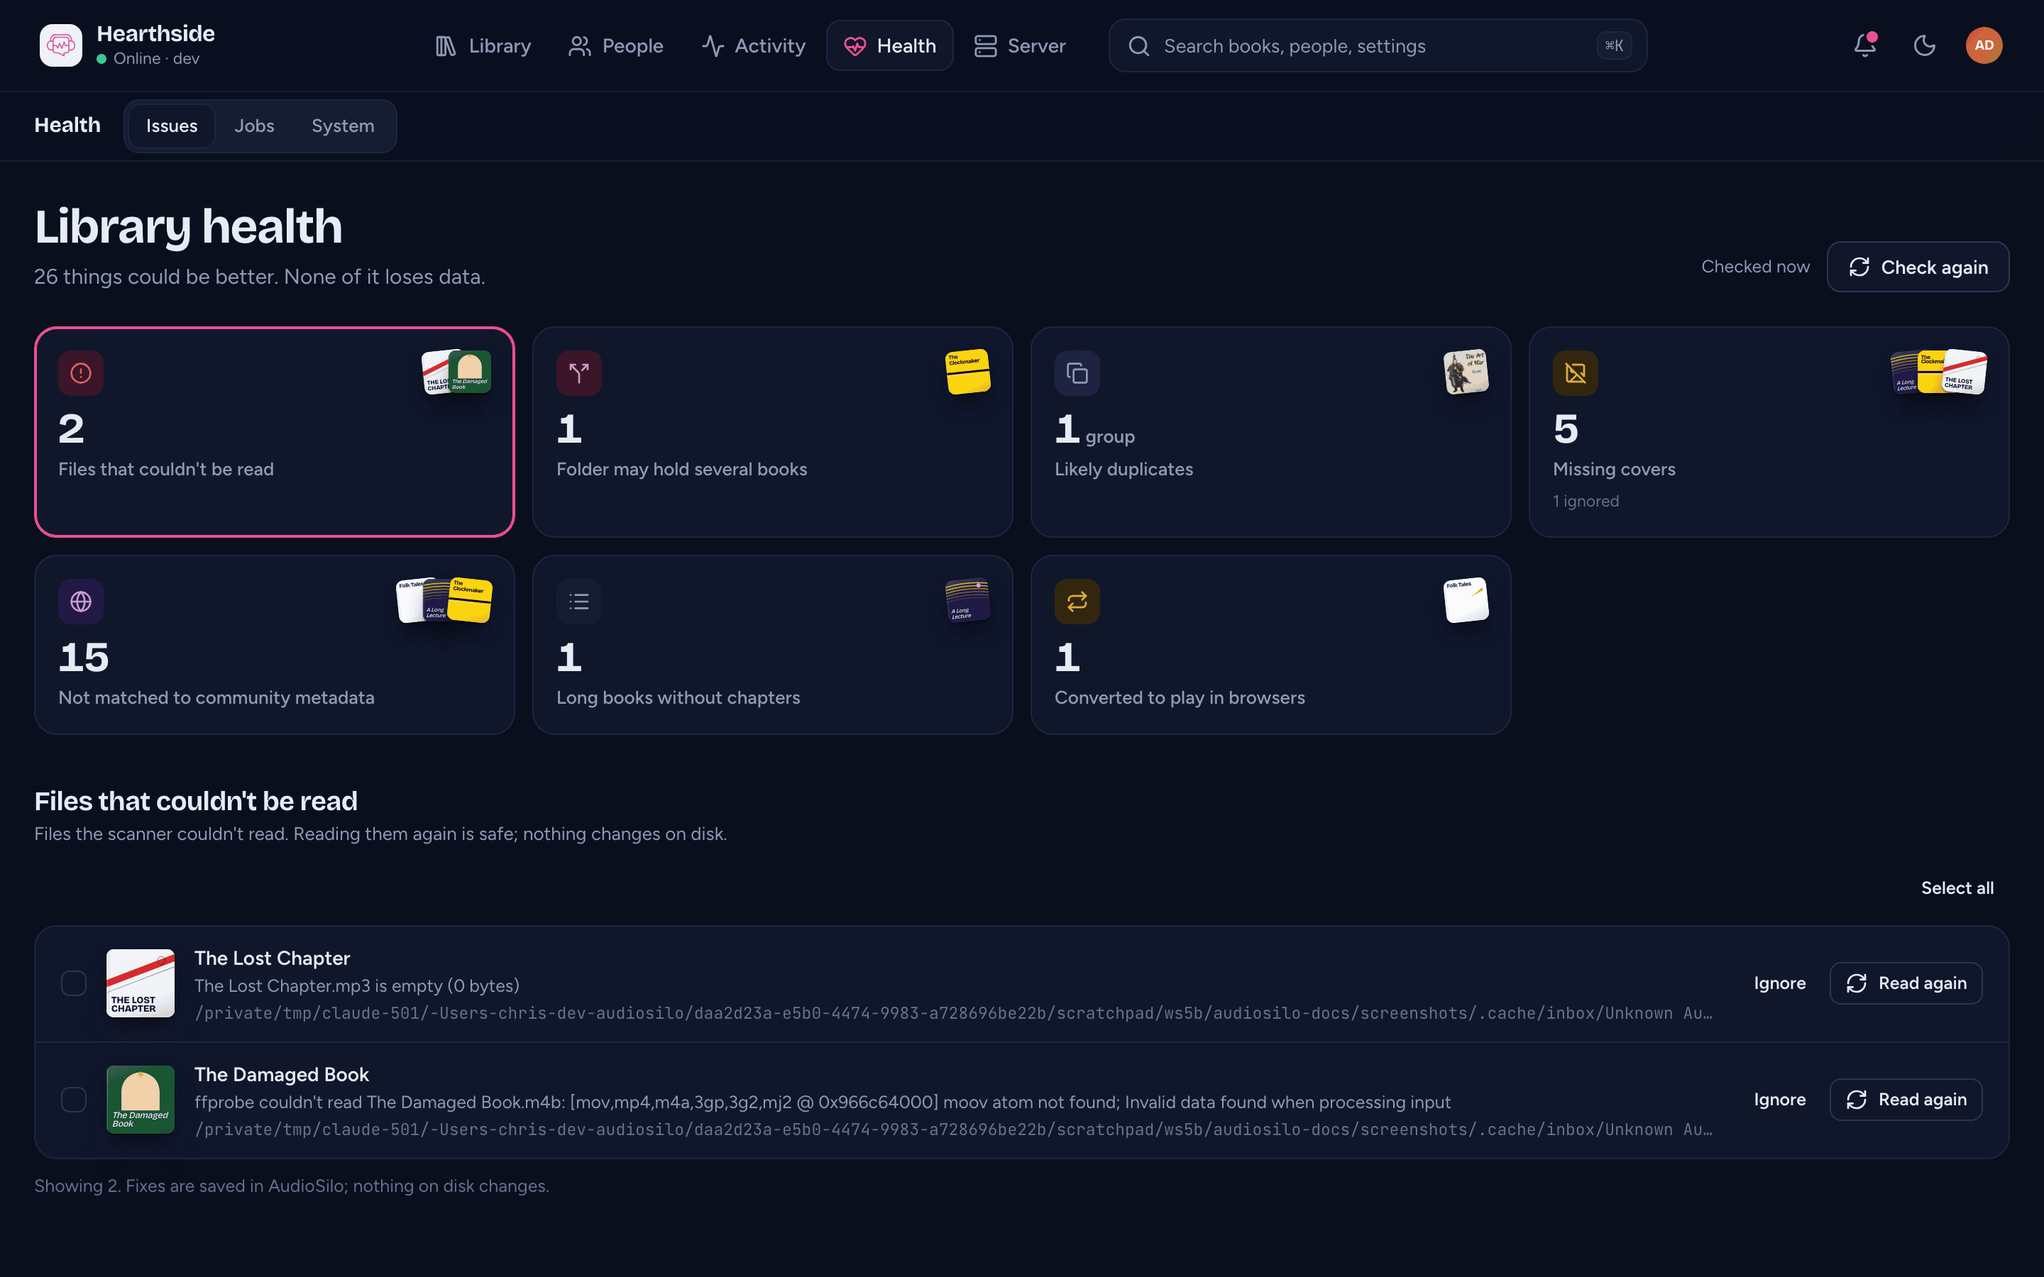
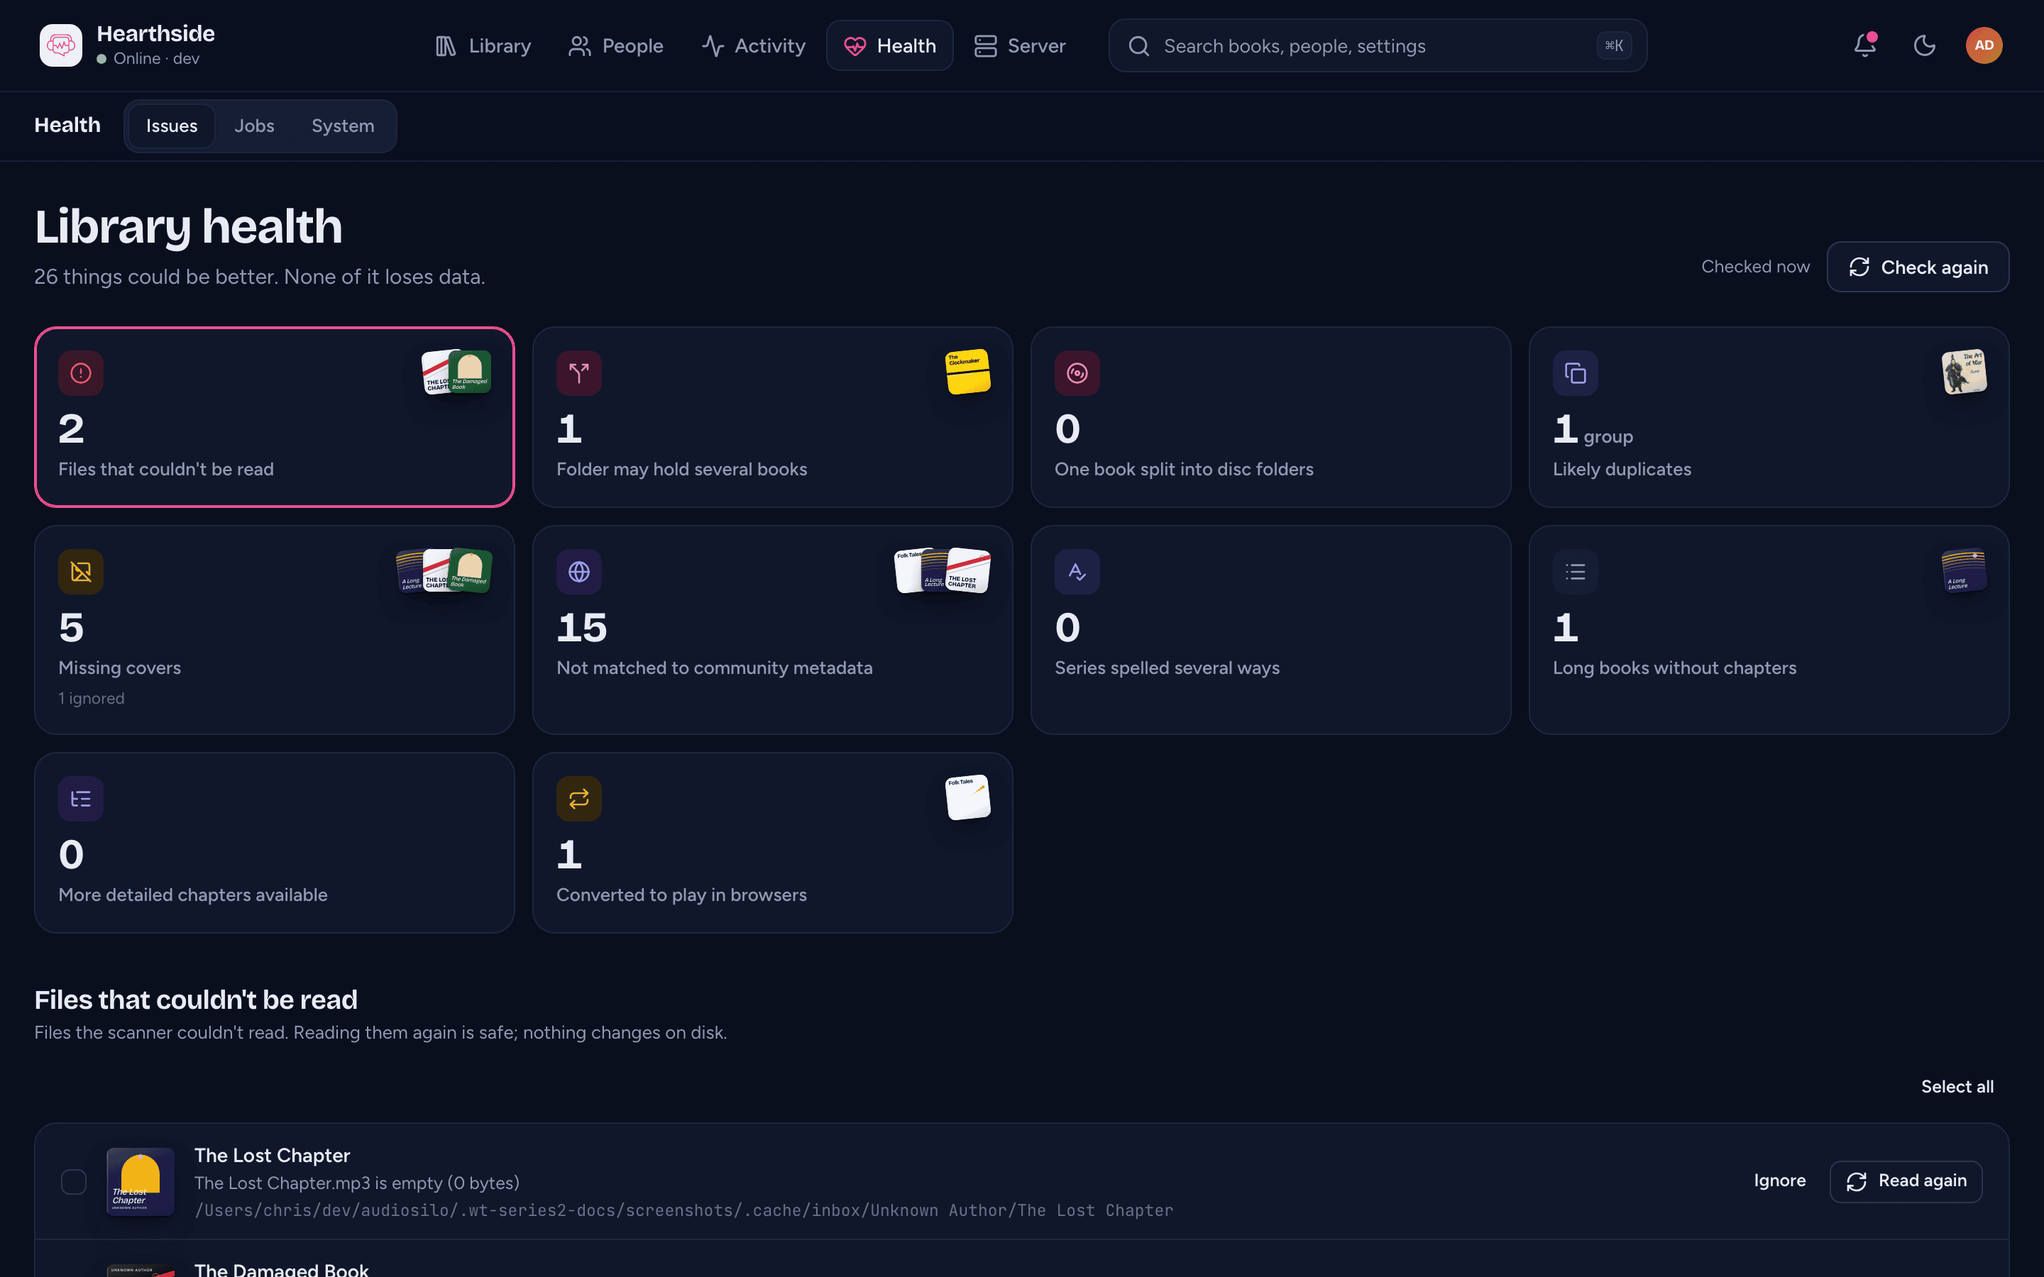
Series keys, Health's series spelled several ways, Authors/Narrators pages
Docs for audiosilo-server's stored series key (books.series_key,
book_more_series, migration 0041, KeySeries), the Health issue and its endpoint,
and the paged Authors and Narrators lists; health-issues and authors screenshots
regenerated.

diff --git a/docs-developers/server/data-model.md b/docs-developers/server/data-model.md
@@ -4,7 +4,7 @@ description: "The SQLite schema behind audiosilo-server: the rebuildable index v
 ---
 
 The schema lives in `internal/store/migrations/` as numbered SQL files
-(`0001_init.sql` … `0040_server_state.sql`), embedded into the binary and
+(`0001_init.sql` … `0041_series_key.sql`), embedded into the binary and
 applied by `store.Open` at startup. This page documents the **resulting current
 schema**, noting which migration added what.
 
@@ -203,7 +203,7 @@ covered in [Auth & security](auth-and-security.md#authorization-shares--scope).
 `scan_error_file`, `scan_error_detail` and `suspect_parts` in 0017; `split_parent` in
 0022; `cover_art` and `cover_color` in 0023; `chapters_source`, `chapters_fit`,
 `scanned_chapters` and `chapters_hash` in 0035; `released` and `released_checked`
-in 0037)* - one row per book,
+in 0037; `series_key` in 0041)* - one row per book,
 `UNIQUE (library_id, rel_path)`. Columns: `is_folder` (folder book vs
 single-file book), identity metadata (`title`, `author`, `series`,
 `series_index`, `narrator`), `duration`, `asin`/`isbn` (optional external ids -
@@ -217,7 +217,14 @@ that sets or reverts `series` to one of these swaps the two, writing the list
 and `series_index` as overrides (a value the scan already gives is reverted to
 it instead; the console sends the values itself, so its swap writes them as
 edits);
-the full-text index's series column holds every series name), `released` (the date the file's tags give, `YYYY[-MM[-DD]]` via
+the full-text index's series column holds every series name), `series_key` (the
+main series' key, `catalog.seriesKey`: `match.SeriesKey`, so case, accents,
+punctuation and spacing aside, or the name itself when it has no letter or digit;
+`''` for no series), written by Go in `refreshEffective` beside `series` and never
+computed in SQL, so every spelling of a series is found by one index seek
+(`idx_books_series_key` on `(library_id, series_key, series, series_index)`, which
+replaced 0001's `idx_books_series`; `series` sits before `series_index` so a series'
+spellings are adjacent for Health's `series_spellings`), `released` (the date the file's tags give, `YYYY[-MM[-DD]]` via
 `metadata.ReleaseDate`: usually the recording's, so it is a separate scanned
 column, never `published`, read only by the admin list's release-date sort as
 the fallback for a book with no `published`) and `released_checked` (`1` once a
@@ -358,6 +365,15 @@ no row = automatic), `updated_by` (`ON DELETE SET NULL`), `updated_at`. Durable
 admin state like `book_overrides`, kept apart from it because it is not a
 metadata value (no part of `edited` / `edited_fields`); moved with the book's
 other edits, never copied onto a joined book.
+
+**`book_more_series`** *(0041)* - a book's other series by key: one row per
+series in `more_series` that isn't its main one (`book_id` → `books` `ON DELETE
+CASCADE`, `library_id`, `series_key`, `position`; primary key `(book_id,
+series_key)`, `WITHOUT ROWID`, index `(series_key, library_id, position)`).
+Rewritten from the effective values by `refreshEffective` (`keyOtherSeries`), as
+`books.series_key` is, so a series filter with memberships, the series order and
+the next book find a book through its list by an index seek, and the rails'
+`SeriesBooks` without reading every list.
 
 **`books_fts`** *(0001)* - see [FTS design](#fts-design-books_fts) below.
 
@@ -743,11 +759,21 @@ every other table. `catalog/server_state.go` reads and writes a key
 `putServerState`), taking a querier or execer so a caller can read and write one
 key in a single transaction.
 
-One key so far, `support_card`: the answer to the admin console's
-[support card](web-ui.md#the-support-card), `{"choice":"donated"}` or
-`{"choice":"snoozed","until":"<time>"}`. `catalog.SetSupportChoice` reads and
-writes it in one transaction, so a donation is never downgraded by a later
-snooze.
+Its keys:
+
+- `support_card`: the answer to the admin console's
+  [support card](web-ui.md#the-support-card), `{"choice":"donated"}` or
+  `{"choice":"snoozed","until":"<time>"}`. `catalog.SetSupportChoice` reads and
+  writes it in one transaction, so a donation is never downgraded by a later
+  snooze.
+- `title_positions`: `true` once `catalog.PlaceByTitles` has given the books
+  indexed before the title rule their series position from their title.
+- `series_keys`: the version the stored series keys were computed with
+  (`seriesKeysVersion`: the key rules' number, then Go's Unicode version and
+  x/text's NFKD version). `catalog.KeySeries` keys every book at start while it is
+  missing or different (first for the books indexed before 0041, then after an
+  upgrade that reads a name another way), before the listener; a failure stops
+  the start (see `book_more_series` below).
 
 ### Community metadata cache
 
@@ -946,6 +972,7 @@ The migration history so far:
 | 0038 | `more_series` | `books.more_series` (`TEXT NOT NULL DEFAULT '[]'`), the effective list of a book's other series |
 | 0039 | `more_series_index` | the partial index `idx_books_more_series` on `books(library_id) WHERE more_series <> '[]'`, so the reads of the books in more than one series (a series' members, `/series` with `memberships=1`) skip the rest |
 | 0040 | `server_state` | `server_state` (`key`, `value`, `updated_at`), small server-wide facts that aren't settings; the first key is the support card's answer: see [Server state](#server-state) |
+| 0041 | `series_key` | `books.series_key` and `book_more_series`, a series stored by its key so every series filter is an index seek in any spelling; `idx_books_series_key` replaces `idx_books_series`, and `idx_books_more_series` (0039) goes, since nothing reads it any more. Rows indexed before it are keyed at start by `catalog.KeySeries` (server_state `series_keys`), which also puts every stored `more_series` list through the list rules first |
 
 ## SQLite choices
 

diff --git a/docs-developers/server/api/reference.md b/docs-developers/server/api/reference.md
@@ -3322,7 +3322,7 @@ what the first does).
 | `min_duration` · `max_duration` | number (seconds) | - | inclusive bounds; `0` means no bound |
 | `added_after` | date | - | inclusive lower bound on `added_at`: `YYYY-MM-DD` (used as is) or an RFC 3339 time (any offset; converted to UTC before comparing) |
 | `added_before` | date | - | exclusive upper bound, same formats |
-| `issue` | string | - | one [Health issue](#get-apiv1adminissues) kind's books: `scan_error`, `suspect`, `split_discs` (one row per split book: its first disc), `no_cover`, `unmatched`, `no_chapters`, `detailed_chapters` or `transcode` (not `duplicate`, which comes as groups from [`/admin/issues/duplicates`](#get-apiv1adminissuesduplicates)). Books an admin ignored for that kind are left out. Any other value is `400 unknown issue` |
+| `issue` | string | - | one [Health issue](#get-apiv1adminissues) kind's books: `scan_error`, `suspect`, `split_discs` (one row per split book: its first disc), `no_cover`, `unmatched`, `series_spellings`, `no_chapters`, `detailed_chapters` or `transcode` (not `duplicate`, which comes as groups from [`/admin/issues/duplicates`](#get-apiv1adminissuesduplicates)). Books an admin ignored for that kind are left out. Any other value is `400 unknown issue` |
 | `issue_ignored` | `true`\|`false` | - | with `issue`, list **only** the books an admin ignored for it; without `issue` it is `400 issue_ignored needs an issue` |
 | `sort` | string | `title` | `title` \| `author` \| `surname` \| `series` \| `narrator` \| `published` \| `added` \| `duration` \| `size` |
 | `order` | string | `asc` | `asc` \| `desc` |
@@ -4468,7 +4468,13 @@ a scan last finished.
 
 - `categories` - one entry per kind, always in this order: `scan_error`,
   `suspect`, `split_discs`, `duplicate`, `no_cover`, `unmatched`,
-  `no_chapters`, `detailed_chapters`, `transcode`. `detailed_chapters` is a
+  `series_spellings`, `no_chapters`, `detailed_chapters`, `transcode`.
+  `series_spellings` is a book whose main series another book of its library
+  spells another way (the same series in a different case, accent, punctuation or
+  spacing; see [`/series`](#get-apiv1librariesidseries)); every book of such a
+  series is counted, and
+  [`/admin/issues/series-spellings`](#get-apiv1adminissuesseries-spellings) lists
+  them per series. `detailed_chapters` is a
   book whose last [community chapter check](../community-chapters.md) found
   finer community chapters that fit (`refine`) and whose chapter source no
   admin has chosen; the console's fix is a bulk edit with
@@ -4534,6 +4540,46 @@ different libraries are deliberate and never grouped).
 - At most 500 groups (counted after that filter, so every ignored group can be
   reached), ordered by library and the kept copy's path.
 
+### `GET /api/v1/admin/issues/series-spellings`
+
+The series a library's books spell more than one way, one entry per series and
+library, from the same rule as the `series_spellings` count.
+
+| Query param | Type | Notes |
+|---|---|---|
+| `library_id` | int | one library; a non-positive or non-integer id is `400 invalid library_id` |
+| `ignored` | `true` | return the series with a book an admin ignored for `series_spellings` (instead of those with a book not ignored) |
+
+```json
+{
+  "groups": [
+    {
+      "library_id": 5,
+      "suggested": "He Who Fights with Monsters",
+      "spellings": [
+        { "name": "He Who Fights With Monsters", "books": 8 },
+        { "name": "He Who Fights with Monsters", "books": 5 }
+      ],
+      "books": 13
+    }
+  ]
+}
+```
+
+- `suggested` - the name [`/series`](#get-apiv1librariesidseries) gives the
+  series: the spelling its matched books use most, else the one most of its books
+  use, ties alphabetical. The console offers it first.
+- `spellings` - every spelling of the series in that library, with its books, most
+  books first (ties alphabetical). Ignored books' spellings are listed too, so a
+  rename leaves none behind.
+- `books` - all of the series' books in that library.
+- A series can be in both views while some of its books are ignored and some not.
+  At most 200 entries, ordered by `suggested` (case-insensitive), then library.
+
+The console's fix is a [bulk edit](#post-apiv1adminbooksbulk) setting `series` on
+the books of the other spellings, as an author merge is; ignoring a series is a
+`series_spellings` ignore of every one of its books.
+
 ### `POST /api/v1/admin/issues/ignore` · `DELETE /api/v1/admin/issues/ignore`
 
 `POST` stops listing books under one issue kind; `DELETE` lists them again (the
@@ -4544,7 +4590,7 @@ console's Undo and "Show again"). For duplicates, ignore every copy of a group
 { "kind": "no_cover", "books": [ { "library_id": 1, "path": "Sun Tzu/The Art of War" } ] }
 ```
 
-- `kind` - one of the nine kinds above.
+- `kind` - one of the ten kinds above.
 - `books` - 1 to 1000 `{library_id, path}` refs. The books needn't be indexed:
   the rows are path-keyed durable state (`issue_ignores`), so an ignore
   survives rescans and rebuilds and moves with the book. A ref in a library

diff --git a/docs-users/admin/health.md b/docs-users/admin/health.md
@@ -48,6 +48,7 @@ below.
 | **Likely duplicates** | Copies of one book in the same library. See [Duplicates](#duplicates). | A side-by-side comparison. |
 | **Missing covers** | No cover image in the book's folder and none inside its files. | **Upload a cover** opens the book's page, where **Change cover** adds one (see [Covers](books.md#covers)). |
 | **Not matched to community metadata** | The book has no ASIN or ISBN, so community metadata can't find it. Only shown while [community metadata](server.md#community-metadata) is on. | **Review match** opens the book's page with the match dialog open (see [Matching](books.md#matching-with-community-metadata)). To match the whole list at once, use **Match automatically** above it (see [Matching every book at once](#matching-every-book-at-once)). |
+| **Series spelled several ways** | Books of one series whose tags spell its name differently, for example "He Who Fights With Monsters" on some books and "He Who Fights with Monsters" on others. AudioSilo already shows them as one series; this is only about every book saying the same. See [Series spelled several ways](#series-spelled-several-ways). | **Use this spelling** sets one spelling on every book of the series. |
 | **Long books without chapters** | Books over two hours long with no chapter marks (or a single chapter). Listeners can play them but can't jump between chapters. When the book was checked against the community's chapter lists and they couldn't be used, a second line says why, for example "Community chapters: for another edition" or "Community chapters: cross from one file into the next. Merging the files would let them fit" (see [Community chapters](books.md#community-chapters)). | None in the console. [Match](books.md#matching-with-community-metadata) the book so its community chapters can be used (a book with no chapters of its own gets them automatically once they fit), add chapters to the file with your tagging tool, or ignore it. |
 | **More detailed chapters available** | The book has chapters, and the community has finer ones that fit this copy ("Has 34 chapters; the community's finer ones fit this copy"). Nothing changes until you use them. | **Use detailed chapters** switches the book to the community's chapters. Using them on the book's page does the same. Once you have chosen, the book stays off this list, even if you later switch it back to the file's chapters. |
 | **Converted to play in browsers** | The audio format doesn't play in web browsers, so the server converts it while someone listens in the web player. The apps play it as it is. | None needed: it works. Re-encode the file if you'd rather the server didn't convert it, or ignore it. |
@@ -196,6 +197,31 @@ when it was **Added**. **Open book** opens a copy's page.
 - AudioSilo never deletes a copy for you. To remove one, delete its files from
   the library folder and rescan; listening progress on the deleted copy's path
   is kept (see [Jobs](#what-a-removed-book-leaves-behind)).
+
+### Series spelled several ways
+
+AudioSilo treats names that differ only in capitals, accents, punctuation or
+spacing as one series, so the Series page already shows one card for them. The
+books themselves still say it differently, which shows in the players' book
+details, the Books list and the library export. This list sorts that out.
+
+Each series has its own notice, for example "“He Who Fights With Monsters”
+looks like He Who Fights with Monsters", with how many books carry the other
+spellings.
+
+- The spelling it offers is the name the Series page gives the series: the one
+  your matched books use most, else the one most books use. Pick another from
+  the list beside the button if you prefer it.
+- **Use this spelling** sets that spelling on every book that spells the series
+  another way, as an edit on each book; the files are untouched. Each book keeps
+  its number in the series. The toast has an **Undo** button, and you can also
+  revert the series on any single book's page. It works like
+  [merging two spellings of an author](books.md#merging-two-spellings).
+- **Ignore** stops suggesting the series, for all its books. **Show ignored**
+  lists those series, each with **Show again**.
+
+Only books in the same library are compared. AudioSilo never changes a spelling
+on its own.
 
 ### When a library is offline
 

diff --git a/docs-users/admin/books.md b/docs-users/admin/books.md
@@ -426,6 +426,12 @@ one person. Use the library filter and **Filter authors** (or **Filter
 narrators**) to narrow the list. Click a name to open **Books** filtered to that
 person, their shared books included.
 
+The page shows 120 people at a time. Use the page numbers under the tiles to
+move through a long list. The page and the filter are part of the page's
+address, so after you open a name, **Back** returns you to the same page and the
+same filter. A new filter, or picking another library, starts again on the first
+page.
+
 ![Library > Authors](/img/screenshots/admin/authors.png)
 
 ### Merging two spellings
@@ -453,7 +459,10 @@ The page shows 24 series at a time. Use the page numbers under the cards to
 move through a long list, or jump straight to a page. Type in **Find a series
 or author** to show only the series whose name or author holds what you type,
 ignoring case, accents, punctuation and spaces ("fights with" finds "He Who
-Fights with Monsters"). The page and the search are part of the page's
+Fights with Monsters"). Names that differ only like that are one series, with
+one card; to make every book spell it the same way, use
+[Series spelled several ways](health.md#series-spelled-several-ways) in Health.
+The page and the search are part of the page's
 address, so after you open a book, **Back** returns you to the same page, the
 same search and the same place on it. Picking another library starts again on
 the first page.

diff --git a/docs-developers/server/scanner.md b/docs-developers/server/scanner.md
@@ -628,6 +628,7 @@ predicate over `books b`, shared by the counts (`IssueCounts`) and the lists
 | `split_discs` | it is the **first** disc (by `rel_path`) of a book split across disc folders: `split_parent` is set and that folder has no override of either mode (one settles how it reads). Its fix sets `book` on `split_parent`, which joins the discs |
 | `no_cover` | a scan has checked it (`has_cover` not `NULL`) and it has no sidecar image, no embedded art and no custom cover |
 | `unmatched` | it has no ASIN and no ISBN. Only offered while community metadata is on |
+| `series_spellings` | another book of its library spells its main series another way: the same `series_key`, a different `series` (two range seeks on `idx_books_series_key`, a spelling below its own or above). `SeriesSpellingGroups` lists them per series from the same predicate; the console's fix sets one spelling with a bulk edit |
 | `no_chapters` | it is longer than **2 hours** and has at most one chapter. The console shows why community chapters weren't used from the row's `chapters_check` (a failed [community chapter check](community-chapters.md)) |
 | `detailed_chapters` | its last community chapter check is `refine` (the community's finer chapters fit) and it has no `chapter_source` choice; picking either source settles it |
 | `transcode` | its codec doesn't play in browsers (`media.DirectPlayable`) |
